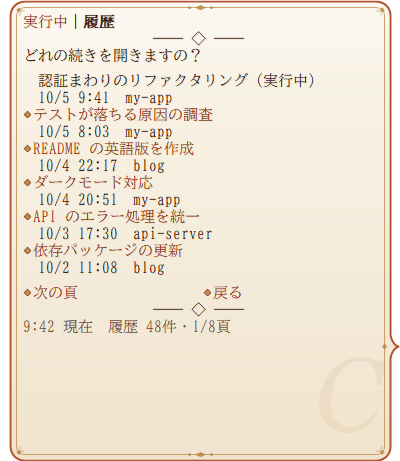
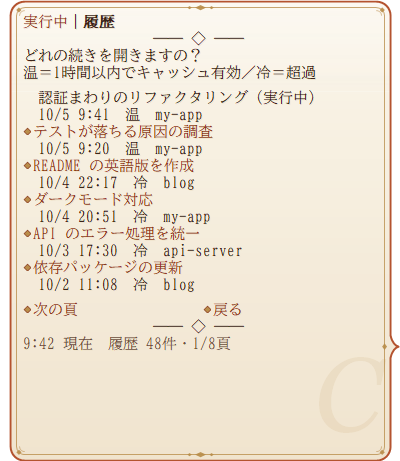
履歴の一覧にプロンプトキャッシュの温冷の印を付ける
- 最後のメッセージから 1 時間以内なら「温」、過ぎていれば「冷」を日時の横に出す
- 時刻は会話の記録の最後のメッセージの timestamp から取る（CC.LineSec）。
  記録のファイルの更新時刻は、開いただけで cost-state などの行が足されて新しくなるので使わない
- 履歴の頁に凡例の 1 行を足し、紹介ページの説明と画像、GHOST.md、design-system.md を直す

🌹 Polished by Claudia

Changed region(s): [[0.06, 0.1215, 0.81, 0.7592], [0.27, 0.6681, 0.45, 0.7592]]

diff --git a/site/index.html b/site/index.html
@@ -329,11 +329,12 @@ footer { text-align: center; padding: 48px 16px 64px; font-size: 13px; color: va
         <h3>実行中のセッションと、続きの再開</h3>
         <p>メニューの「Claude Code は？」を開けば、今動いているセッションを一覧にしてお見せしますわ。返事待ちを先に並べて、何を待たれているかまで添えますの。</p>
         <p>「履歴」の頁には、これまでのセッションが題名と日付つきで並びますわ。選べば、そのセッションの作業フォルダで <code>claude -r</code> を開いて、続きから再開できましてよ。</p>
+        <p>最後のメッセージから 1 時間以内なら「温」、過ぎていれば「冷」の印をつけますわ。Claude Code のプロンプトキャッシュは 1 時間ですので、「冷」の再開は、会話を読み直すぶん少し重くなりますの。</p>
         <p class="note">開けるのは、Claude Code が会話の記録を残しているセッション（既定でおよそ 30 日分）だけ。題名は記録の見出しから拾い、依頼の本文は読みませんわ。今動いているものには印をつけて、二重に開かないようにしてありますの。Claude Code を動かしていなくても、履歴は開けますわ。</p>
       </div>
       <div class="stage cols">
         <div><img src="img/cc-run-0.png" width="400" height="461" alt="実行中の頁。実行中と履歴の見出し。許可待ちのセッションには待たれている中身も添えて、作業中、手すきのセッションが並ぶ。最下段に作業中・待ち・手すきの数"></div>
-        <div><img src="img/cc-hist-0.png" width="400" height="461" alt="履歴の頁。セッションの題名と最後に使った日時、作業フォルダが 6 件並び、動いているセッションには（実行中）と添えられている。前後の頁へ送る選択肢と、履歴の件数"></div>
+        <div><img src="img/cc-hist-0.png" width="400" height="461" alt="履歴の頁。セッションの題名と最後のメッセージの日時、キャッシュが温かいか冷えたかの印、作業フォルダが 6 件並び、動いているセッションには（実行中）と添えられている。前後の頁へ送る選択肢と、履歴の件数"></div>
       </div>
     </div>
 

diff --git a/GHOST.md b/GHOST.md
@@ -39,7 +39,7 @@
 | `yaya_etc.dic` | シェル変更、インストール、消滅（vanish）、ネットワーク更新、ヘッドライン、時刻合わせなどのイベント。PC の様子（バッテリー、デバイスの抜き差し、壁紙の変更、音楽の再生） |
 | `yaya_string.dic` | メニュー項目やおすすめサイトなどのリソース（`On_*`） |
 | `yaya_word.dic` | トーク中に埋め込む単語（`%(tea)` 紅茶、`%(sweets)` お菓子、`%(food)` 料理） |
-| `yaya_claudecode.dic` | Claude Code のセッションの見張り（`CC.*`）。`%USERPROFILE%\.claude\sessions\*.json` を `\![execute,filewatch]` で見張り（`OnClaudeCodeDir` / `OnClaudeCodeFile`）、返事待ちのベルと 5 分ごとのリマインダ、長考と完了、新しいセッション、会話の記録（`%USERPROFILE%\.claude\projects\...\<sessionId>.jsonl`）から拾ったセッションの題名（`ai-title`）での呼びかけ、長考が片付いたときの働きぶりの報告（`CC.TurnStats`。依頼を受けてから使ったツールと失敗の数）、休憩のすすめ（続けて 2 時間ごと）、通知領域のアイコンの切り替えを行う。見張りは `OnBoot` の `CC.Start` で立てる。メニュー「Claude Code は？」（`Menu_CLAUDECODE`。Claude Code を使っている PC では動いていなくても出る）は、上端の見出しで切り替える 2 頁で、「実行中」（`CC.PageRun`。動いていなければ空欄のひとこと）と「履歴」（`CC.PageHist`）がある。履歴は `history.jsonl` の末尾から sessionId ごとの最後の依頼を拾い（`CC.HistScan`。約 60 日まで）、会話の記録が残っているもの（Claude Code が約 30 日で片付けるので、履歴の大半は開けない）だけを新しい順に 6 件ずつ並べる。選ぶと `OnCCResume`（`CC.Resume`）が、作業フォルダを cwd にして `EXECUTE('claude', '-r "<sessionId>"', 作業フォルダ)` で続きを開く（**第 3 引数の作業フォルダは yaya.dll Tc604-1 以降**）。動いているセッションは印を付けて選べなくする。詳しい仕組みは先頭のコメントにある |
+| `yaya_claudecode.dic` | Claude Code のセッションの見張り（`CC.*`）。`%USERPROFILE%\.claude\sessions\*.json` を `\![execute,filewatch]` で見張り（`OnClaudeCodeDir` / `OnClaudeCodeFile`）、返事待ちのベルと 5 分ごとのリマインダ、長考と完了、新しいセッション、会話の記録（`%USERPROFILE%\.claude\projects\...\<sessionId>.jsonl`）から拾ったセッションの題名（`ai-title`）での呼びかけ、長考が片付いたときの働きぶりの報告（`CC.TurnStats`。依頼を受けてから使ったツールと失敗の数）、休憩のすすめ（続けて 2 時間ごと）、通知領域のアイコンの切り替えを行う。見張りは `OnBoot` の `CC.Start` で立てる。メニュー「Claude Code は？」（`Menu_CLAUDECODE`。Claude Code を使っている PC では動いていなくても出る）は、上端の見出しで切り替える 2 頁で、「実行中」（`CC.PageRun`。動いていなければ空欄のひとこと）と「履歴」（`CC.PageHist`）がある。履歴は `history.jsonl` の末尾から sessionId ごとの最後の依頼を拾い（`CC.HistScan`。約 60 日まで）、会話の記録が残っているもの（Claude Code が約 30 日で片付けるので、履歴の大半は開けない）だけを新しい順に 6 件ずつ並べる。各件には、会話の記録の最後のメッセージの時刻（`CC.LineSec`。行の `timestamp`。ファイルの更新時刻は開いただけで変わるので使わない）と、そこから 1 時間以内かどうかの印（温／冷。プロンプトキャッシュの目安。`CC.HistFresh`）を添える。選ぶと `OnCCResume`（`CC.Resume`）が、作業フォルダを cwd にして `EXECUTE('claude', '-r "<sessionId>"', 作業フォルダ)` で続きを開く（**第 3 引数の作業フォルダは yaya.dll Tc604-1 以降**）。動いているセッションは印を付けて選べなくする。詳しい仕組みは先頭のコメントにある |
 | `yaya_ccstats.dic` | Claude Code の功績録（`CCS.*`）。依頼の履歴 `%USERPROFILE%\.claude\history.jsonl`（時刻と作業フォルダだけを読み、本文は使わない）と、`yaya_claudecode.dic` の見張りから `CCS.Count` で数えた回数を合わせて、メニュー「功績録と業務報告」の功績録、終了時のひとこと（`OnClose`）、節目のお祝い（記念日、新しい称号、依頼の千件ごと。`CC.Minute` から）を出す。功績録は上端の見出しで切り替える 6 頁（報告・依頼・領地・見届け・称号・番外）で、メニューから開くと 1 頁目の業務報告（本日）を出す。業務報告（`CCS.PageReport`）は、本日・昨日・今週（月曜から）・先週・今月・先月・今年と、日付の入力欄で指定した期間（`OnCCSPeriod`、`OnInputCCSFrom` / `OnInputCCSTo`。`yaya_menu.dic`）を選べる。日は午前 4 時で区切る。期間の依頼は、そのたびに履歴を読み直して数える（`CCS.Span`。月の頭の位置を `ccshmpos` に覚えて読み飛ばす）。見届けた数は日ごとに `ccsdlog` に残し、`ccsdlogsince` より前の日の分は無い。番外の称号（`CCS.OddTitles`。時刻や日付、領地の名前、なでた・つついた回数など）は功績録の最後の頁に並べる。Claude Code が無い PC（`CCS.NoClaude`）では、功績録は頁の代わりに `CCS.PageNoClaude`（番外の称号があればそれだけ）を出す。履歴は読み終えた位置を覚えて増えた分だけ読む。AI グラフ（`On_getaistate`）も持ち、依頼・登城日・領地・返事待ち・大仕事・稼働時間の 6 軸を出す（本日の分は加算値）。数が何も無ければ空を返し、システム辞書の既定のグラフになる。背景は `ghost/master/ai0.png` と `ai0_dark.png`（`work/aigraph/make-aigraph.ps1` で作る）。詳しい仕組みは先頭のコメントにある |
 | `yaya_teatimer.dic` | お茶とタイマー（`TM.*`）。メインメニュー「お茶とタイマー」（`Menu_TIMER`）から、紅茶の砂時計と時間を指定した砂時計（同時に 6 本まで）、執務（ポモドーロ。集中・短い休憩・長い休憩の分数と本数は「執務の時間割」で変える）を立てる。締め切りは `OnSecondChange` の `TM.Check` で確かめ、話せるときに知らせる。集中している間は、自動のランダムトーク（`OnAiTalk`）、時報、功績録の節目のお祝いを出さず、執務の間は Claude Code の休憩のすすめも出さない。選択肢の引数は `OnChoiceSelectEx` で受ける（ID が `TM.` で始まるもの）。知らせの音は `ghost/master/tm_*.wav`（`cc_*.wav` と同じく Python で合成した WAV）。詳しい仕組みは先頭のコメントにある |
 | `yaya_homeurl.dic` | ネットワーク更新の URL（`On_homeurl`） |

diff --git a/docs/design-system.md b/docs/design-system.md
@@ -228,7 +228,7 @@
 - アンソニーの台詞の強調は藍 `52,86,168`。封蝋の色はお嬢様だけが使う。
 - 一つのトークで色を変えるのは 2 か所まで。
 - メインメニューと設定メニューは、選択肢を左右 2 段に並べ（`MENU.Grid`）、空いた行の最後に情報バーを置く。9 行のバルーンに収めるため。右の段に回る選択肢は半角 20 字まで。
-- 「Claude Code は？」の頁（`Menu_CLAUDECODE`）も同じ形にする。上端の見出し（`CC.Tabs`。実行中｜履歴。功績録の `CCS.Tabs` と同じ作りで、今の頁は太字、もう一方は選択肢）、一覧、選択肢、情報バーを `\_q` で一度に出す。実行中の頁は、返事待ちを先に並べる。大きいバルーン（24 行）に収まるよう、一覧は 14 行までにして、残りは「ほかに N 件」にまとめる（`CC.ListBody`）。履歴の頁（`CC.PageHist`）は 1 件を 2 行（題名、日時と作業フォルダ）で書き、6 件ずつ頁送りする。動いているセッションは選択肢にせず、「（実行中）」と添える。
+- 「Claude Code は？」の頁（`Menu_CLAUDECODE`）も同じ形にする。上端の見出し（`CC.Tabs`。実行中｜履歴。功績録の `CCS.Tabs` と同じ作りで、今の頁は太字、もう一方は選択肢）、一覧、選択肢、情報バーを `\_q` で一度に出す。実行中の頁は、返事待ちを先に並べる。大きいバルーン（24 行）に収まるよう、一覧は 14 行までにして、残りは「ほかに N 件」にまとめる（`CC.ListBody`）。履歴の頁（`CC.PageHist`）は 1 件を 2 行（題名、日時とキャッシュの印「温／冷」と作業フォルダ。色ではなく文字で示す）で書き、6 件ずつ頁送りする。動いているセッションは選択肢にせず、「（実行中）」と添える。
 
 ### オーナードローメニュー
 
